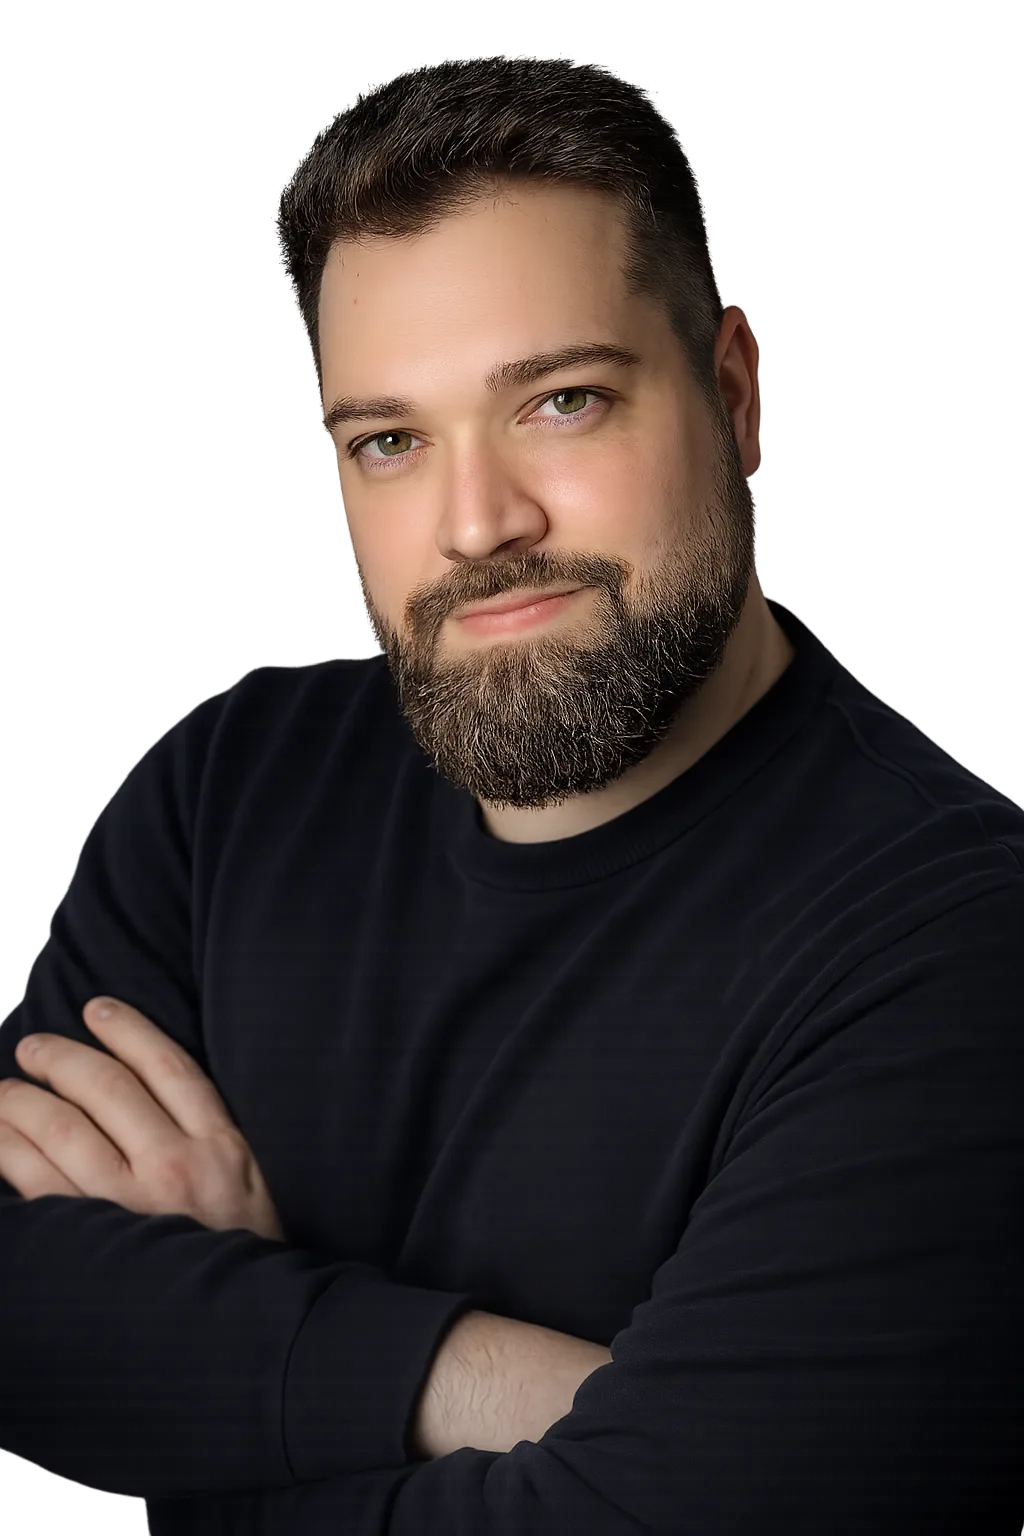
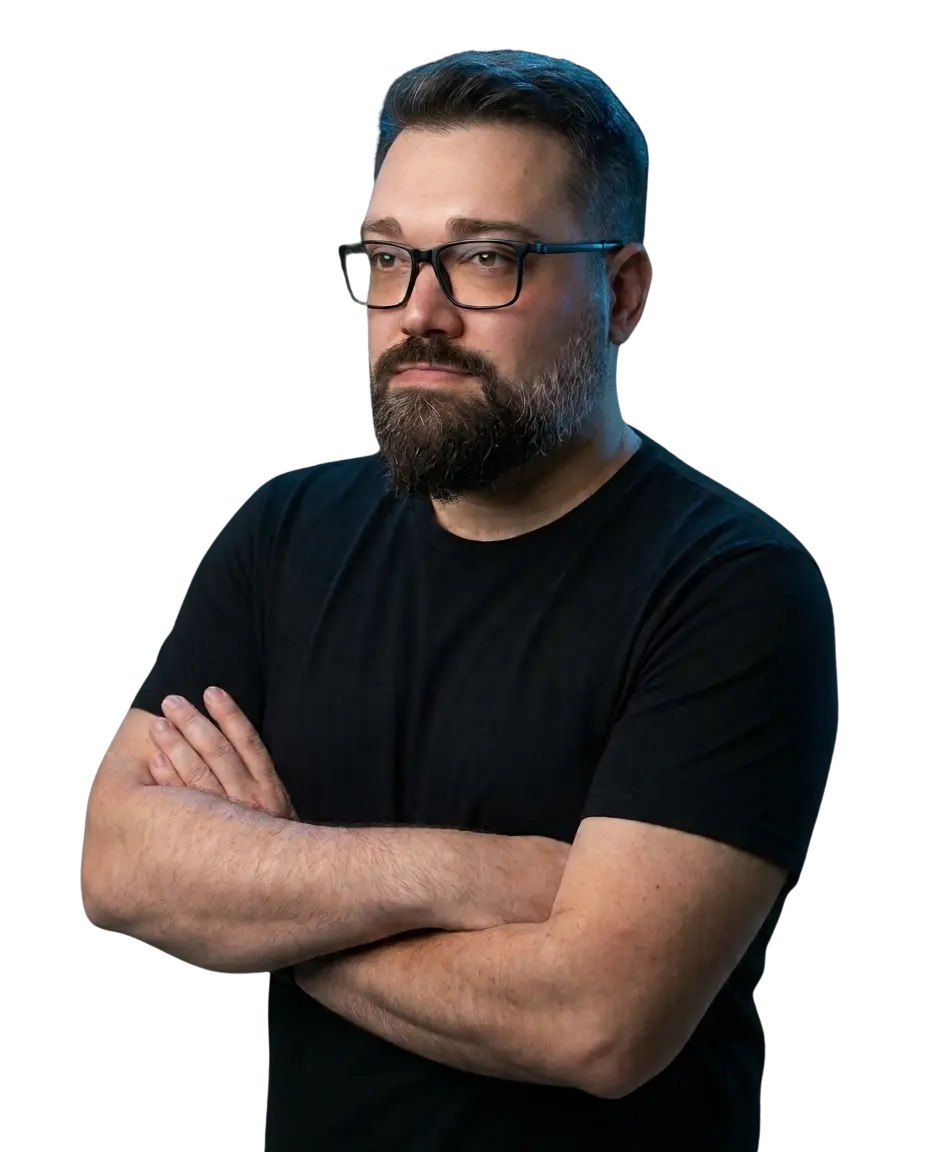
feat: actualizar foto de perfil y mejorar blend de bordes
- Nueva profile.webp con imagen generada por IA
- Mask en 4 lados para blend suave de bordes
- Eliminar archivos de imagen obsoletos (profile.png, imágenes de prueba)

diff --git a/src/components/sections/ProfileImage.jsx b/src/components/sections/ProfileImage.jsx
@@ -1,5 +1,4 @@
-import profileImageWebP from '../../assets/profile.webp';
-import profileImagePng from '../../assets/profile.png';
+import profileImage from '../../assets/profile.webp';
 
 const ProfileImage = ({ size = 'lg', alt = 'Profile', showOverlay = true }) => {
   const sizeClasses = {
@@ -11,17 +10,12 @@ const ProfileImage = ({ size = 'lg', alt = 'Profile', showOverlay = true }) => {
   return (
     <div className="flex justify-center">
       <div className={`relative overflow-hidden rounded-2xl ${showOverlay ? 'profile-image-blend' : ''} ${sizeClasses[size]}`}>
-        {profileImageWebP ? (
-          <>
-            <picture>
-              <source srcSet={profileImageWebP} type="image/webp" />
-              <img
-                src={profileImagePng}
-                alt={alt}
-                className="h-full w-full object-cover object-top brightness-110"
-              />
-            </picture>
-          </>
+        {profileImage ? (
+          <img
+            src={profileImage}
+            alt={alt}
+            className="h-full w-full object-cover object-top brightness-110"
+          />
         ) : (
           <div className="flex h-full w-full items-center justify-center bg-gradient-to-br from-blue-500 to-purple-600">
             <span className="text-5xl font-bold text-white md:text-6xl">M</span>

diff --git a/src/index.css b/src/index.css
@@ -157,12 +157,12 @@
 /* Profile image edge blending via mask */
 .profile-image-blend {
   mask-image:
-    linear-gradient(to right, transparent 0%, black 18%, black 82%, transparent 100%),
-    linear-gradient(to bottom, black 55%, transparent 100%);
+    linear-gradient(to right, transparent 0%, black 25%, black 75%, transparent 100%),
+    linear-gradient(to bottom, transparent 0%, black 8%, black 72%, transparent 100%);
   mask-composite: intersect;
   -webkit-mask-image:
-    linear-gradient(to right, transparent 0%, black 18%, black 82%, transparent 100%),
-    linear-gradient(to bottom, black 55%, transparent 100%);
+    linear-gradient(to right, transparent 0%, black 25%, black 75%, transparent 100%),
+    linear-gradient(to bottom, transparent 0%, black 8%, black 72%, transparent 100%);
   -webkit-mask-composite: destination-in;
 }
 
